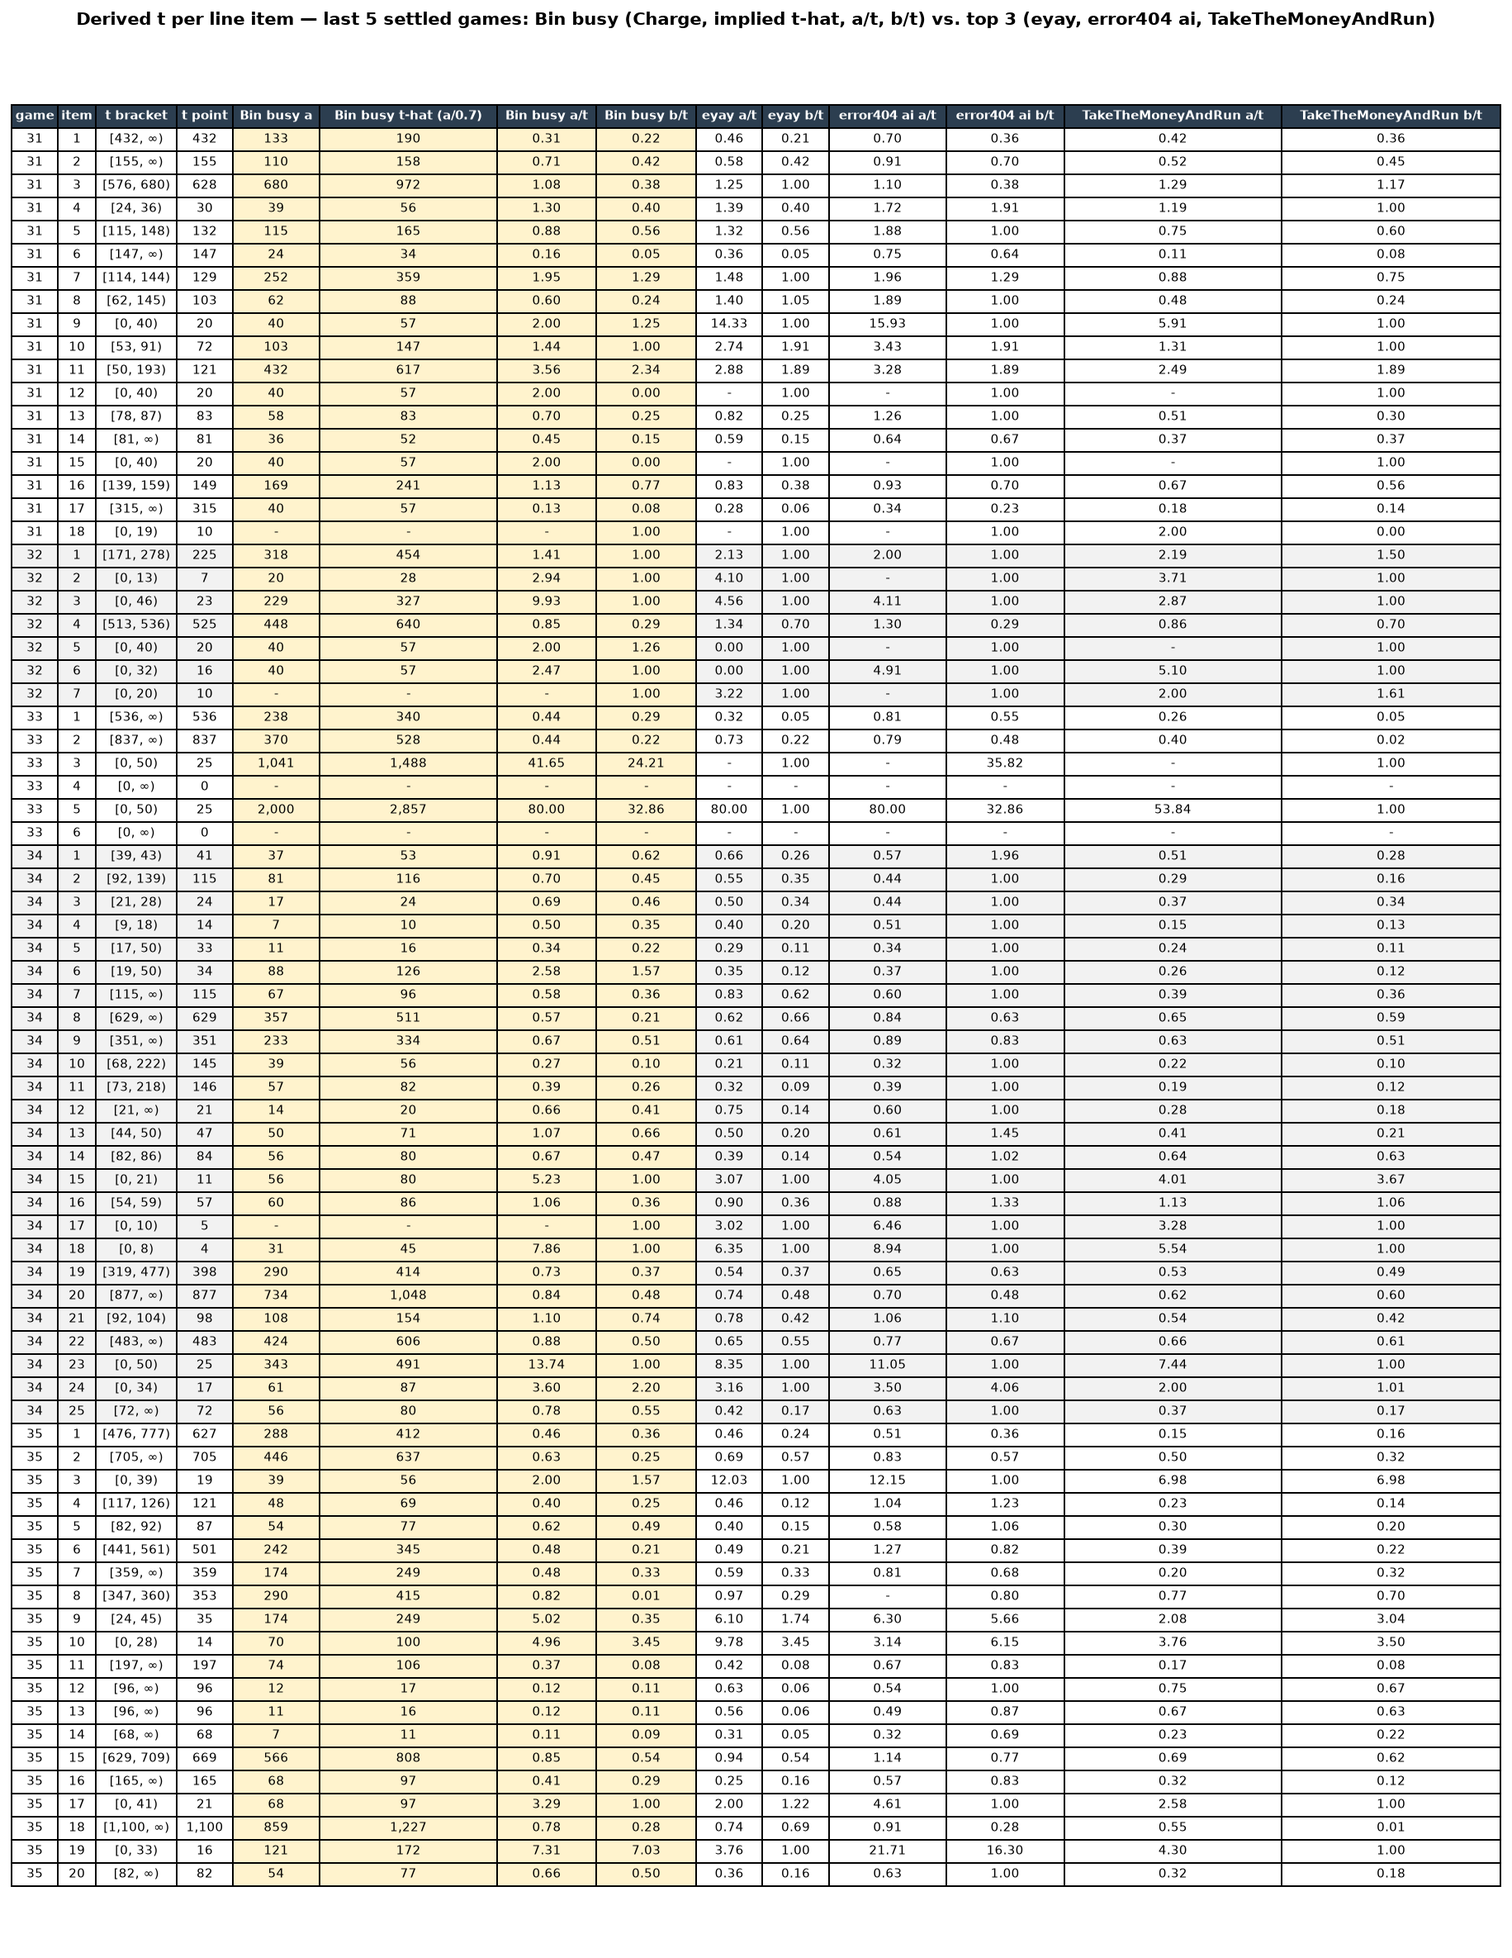
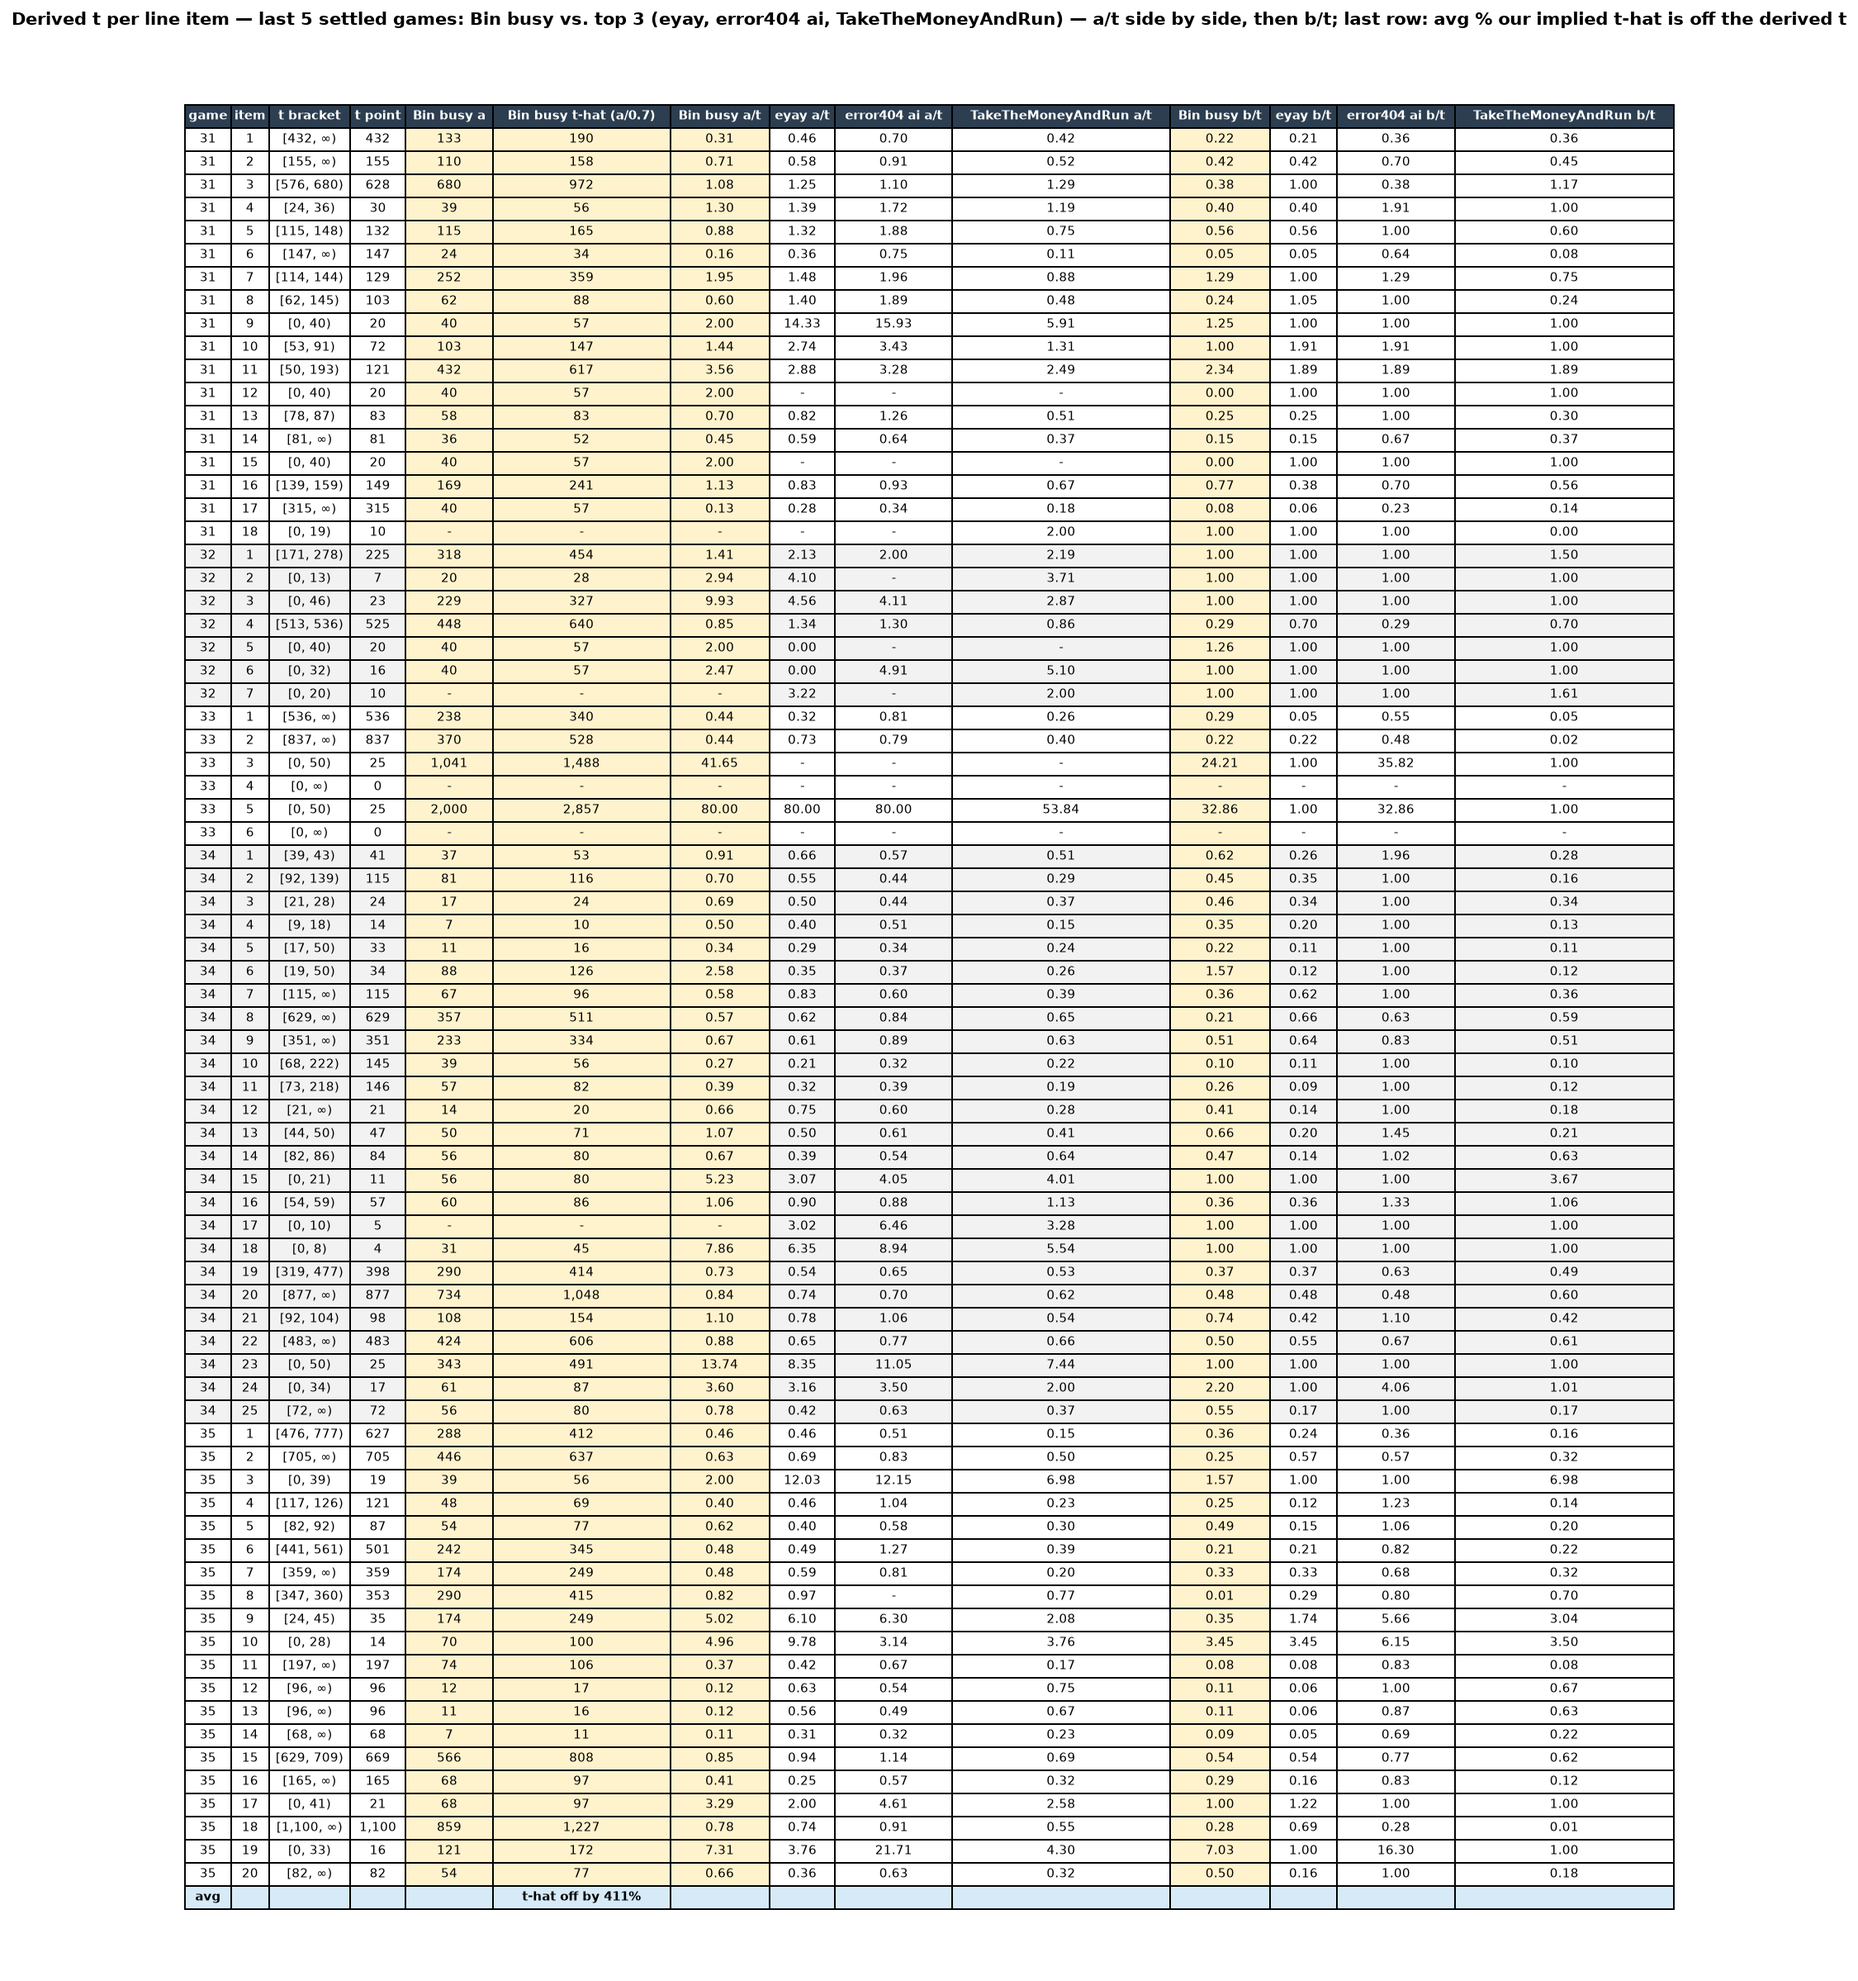
case_analysis: move number tables to tables.md, group a/t and b/t side by side, add avg t-hat deviation row

diff --git a/case_analysis/tvalues.py b/case_analysis/tvalues.py
@@ -55,11 +55,13 @@ def main() -> None:
     games = analysis["games"][-args.games:]
 
     header = ["game", "item", "t bracket", "t point",
-              f"{TEAM} a", f"{TEAM} t-hat (a/0.7)", f"{TEAM} a/t", f"{TEAM} b/t"]
-    for name in top:
-        header += [f"{name} a/t", f"{name} b/t"]
+              f"{TEAM} a", f"{TEAM} t-hat (a/0.7)", f"{TEAM} a/t"]
+    header += [f"{name} a/t" for name in top]
+    header += [f"{TEAM} b/t"]
+    header += [f"{name} b/t" for name in top]
 
     png_rows: list[list[str]] = []
+    t_errors: list[float] = []
     for game in games:
         for li in game["line_items"]:
             t = li["t_point"]
@@ -67,19 +69,24 @@ def main() -> None:
             bracket = ("-" if lo is None and hi is None
                        else f"[{lo or 0:,.0f}, {'∞' if hi is None else f'{hi:,.0f}'})")
             our_a = li["charges_a"].get(TEAM)
+            if our_a and t:
+                t_errors.append(abs(our_a / 0.7 - t) / t)
             row = [
                 str(game["game_id"]), str(li["line_item_index"]), bracket,
                 "-" if t is None else f"{t:,.0f}",
                 "-" if not our_a else f"{our_a:,.0f}",
                 "-" if not our_a else f"{our_a / 0.7:,.0f}",
-                ratio(our_a, t), ratio(b_mid(li["limits_b"].get(TEAM)), t),
+                ratio(our_a, t),
             ]
-            for name in top:
-                row += [
-                    ratio(li["charges_a"].get(name), t),
-                    ratio(b_mid(li["limits_b"].get(name)), t),
-                ]
+            row += [ratio(li["charges_a"].get(name), t) for name in top]
+            row += [ratio(b_mid(li["limits_b"].get(TEAM)), t)]
+            row += [ratio(b_mid(li["limits_b"].get(name)), t) for name in top]
             png_rows.append(row)
+
+    avg_off = (f"{100 * sum(t_errors) / len(t_errors):,.0f}%" if t_errors else "-")
+    summary = (["avg", "", "", "", "", f"t-hat off by {avg_off}", ""]
+               + [""] * (len(header) - 7))
+    png_rows.append(summary)
 
     with (DATA_DIR / "tvalues.csv").open("w", newline="") as f:
         writer = csv.writer(f)
@@ -102,13 +109,17 @@ def main() -> None:
         game_id = png_rows[r - 1][0]
         if c == 0 and game_id != prev_game:
             prev_game = game_id
-        if 4 <= c <= 7:
+        if r == len(png_rows):
+            cell.set_facecolor("#d6eaf8")
+            cell.set_text_props(fontweight="bold")
+        elif c in (4, 5, 6, 7 + len(top)):
             cell.set_facecolor("#fff3cd")
-        elif int(game_id) % 2 == 0:
+        elif game_id.isdigit() and int(game_id) % 2 == 0:
             cell.set_facecolor("#f2f2f2")
     ax.set_title(
         f"Derived t per line item — last {len(games)} settled games: "
-        f"{TEAM} (Charge, implied t-hat, a/t, b/t) vs. top {TOP_N} ({', '.join(top)})",
+        f"{TEAM} vs. top {TOP_N} ({', '.join(top)}) — a/t side by side, then b/t; "
+        f"last row: avg % our implied t-hat is off the derived t",
         fontsize=11, fontweight="bold", pad=12,
     )
     fig.savefig(DATA_DIR / "tvalues.png", dpi=140, bbox_inches="tight")

diff --git a/case_analysis/dashboard.md b/case_analysis/dashboard.md
@@ -3,21 +3,7 @@
 All images below are regenerated automatically every 15 minutes from the settled leaderboard data
 (see `.github/workflows/case-analysis.yml`). Newest / most important first.
 
-## Derived t per line item — last 5 games
-
-For every line item: the derived t bracket/point, Bin busy's Charge and implied t-hat
-(a/0.7 — our submission isn't public, only our Charge is), and a/t & b/t for us vs. the
-current top 3 teams. Full data in `data/tvalues.csv`.
-
-![t values per line item](data/tvalues.png)
-
-## Best teams per game — what to copy
-
-Top 3 by net each game (+ Bin busy's row highlighted): income split (fair accepts /
-swallowed Overcharges / 1.5a penalties), cost leaks, Charge aggressiveness (med a/t),
-and a one-line verdict of why it worked. Full per-team data in `data/teams.csv`.
-
-![Best teams per game](data/teams.png)
+Number-only comparison tables live in [`tables.md`](tables.md).
 
 ## Total balance per team
 

diff --git a/case_analysis/tables.md b/case_analysis/tables.md
@@ -1,0 +1,21 @@
+# Case Analysis — Number Tables
+
+The number-only tables, regenerated automatically with the same workflow as
+[`dashboard.md`](dashboard.md).
+
+## Derived t per line item — last 5 games
+
+For every line item: the derived t bracket/point, Bin busy's Charge and implied t-hat
+(a/0.7 — our submission isn't public, only our Charge is). All a/t values side by side
+(us then top 3), then all b/t values side by side. Last row: on average, how far (in %)
+our implied t-hat was off the derived t. Full data in `data/tvalues.csv`.
+
+![t values per line item](data/tvalues.png)
+
+## Best teams per game — what to copy
+
+Top 3 by net each game (+ Bin busy's row highlighted): income split (fair accepts /
+swallowed Overcharges / 1.5a penalties), cost leaks, Charge aggressiveness (med a/t),
+and a one-line verdict of why it worked. Full per-team data in `data/teams.csv`.
+
+![Best teams per game](data/teams.png)
